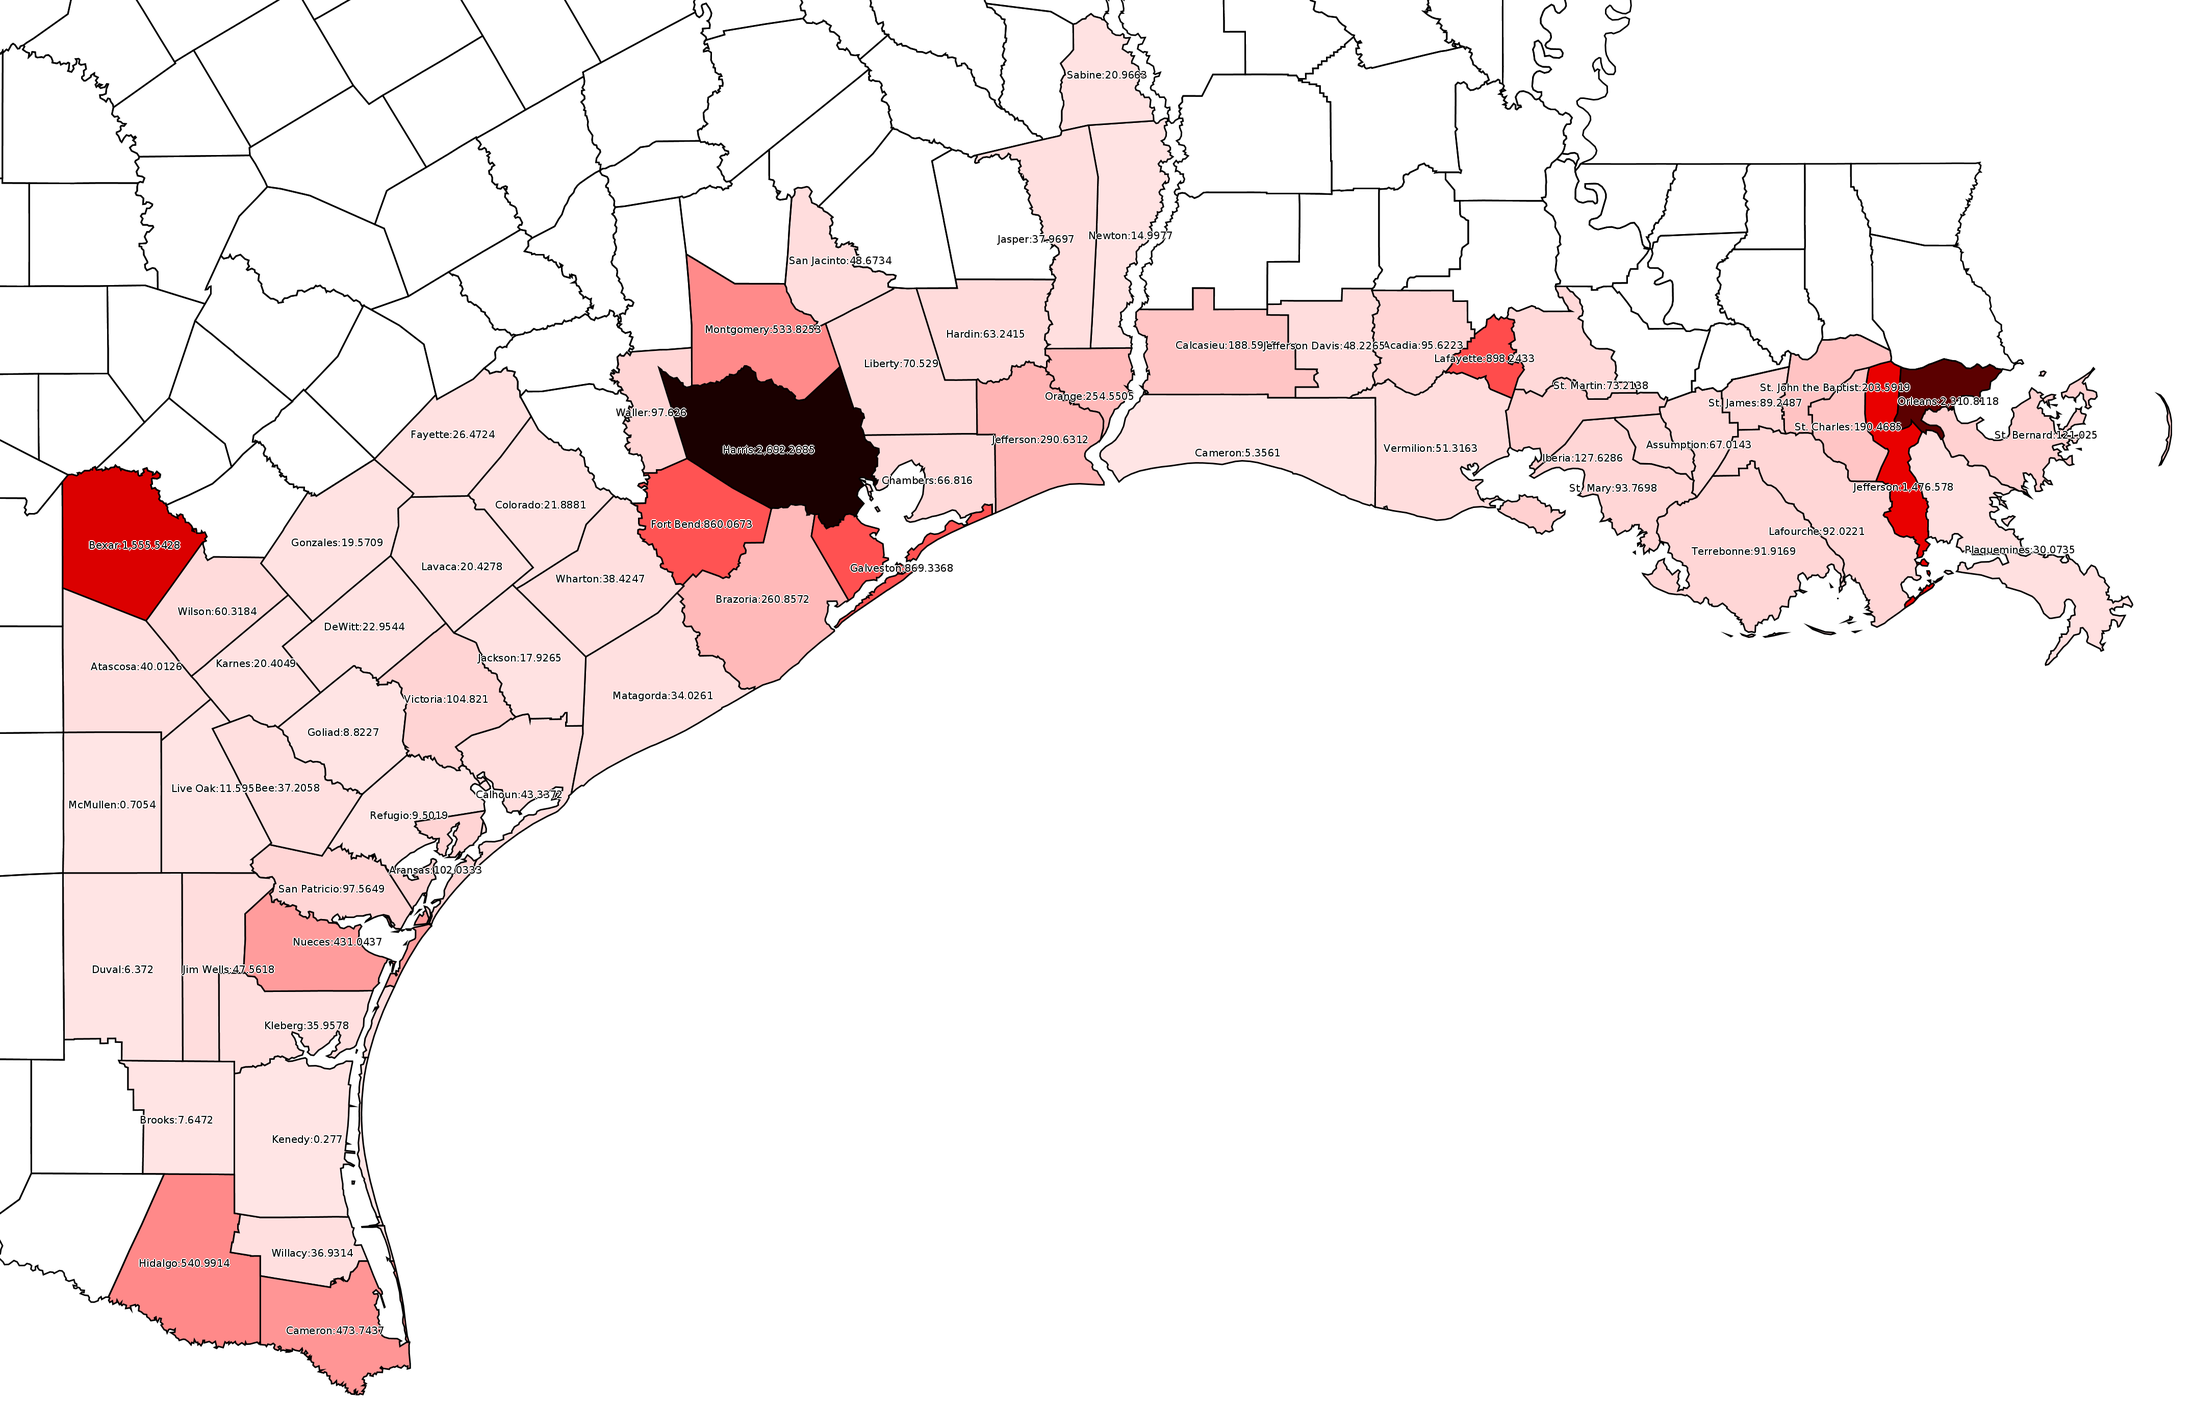
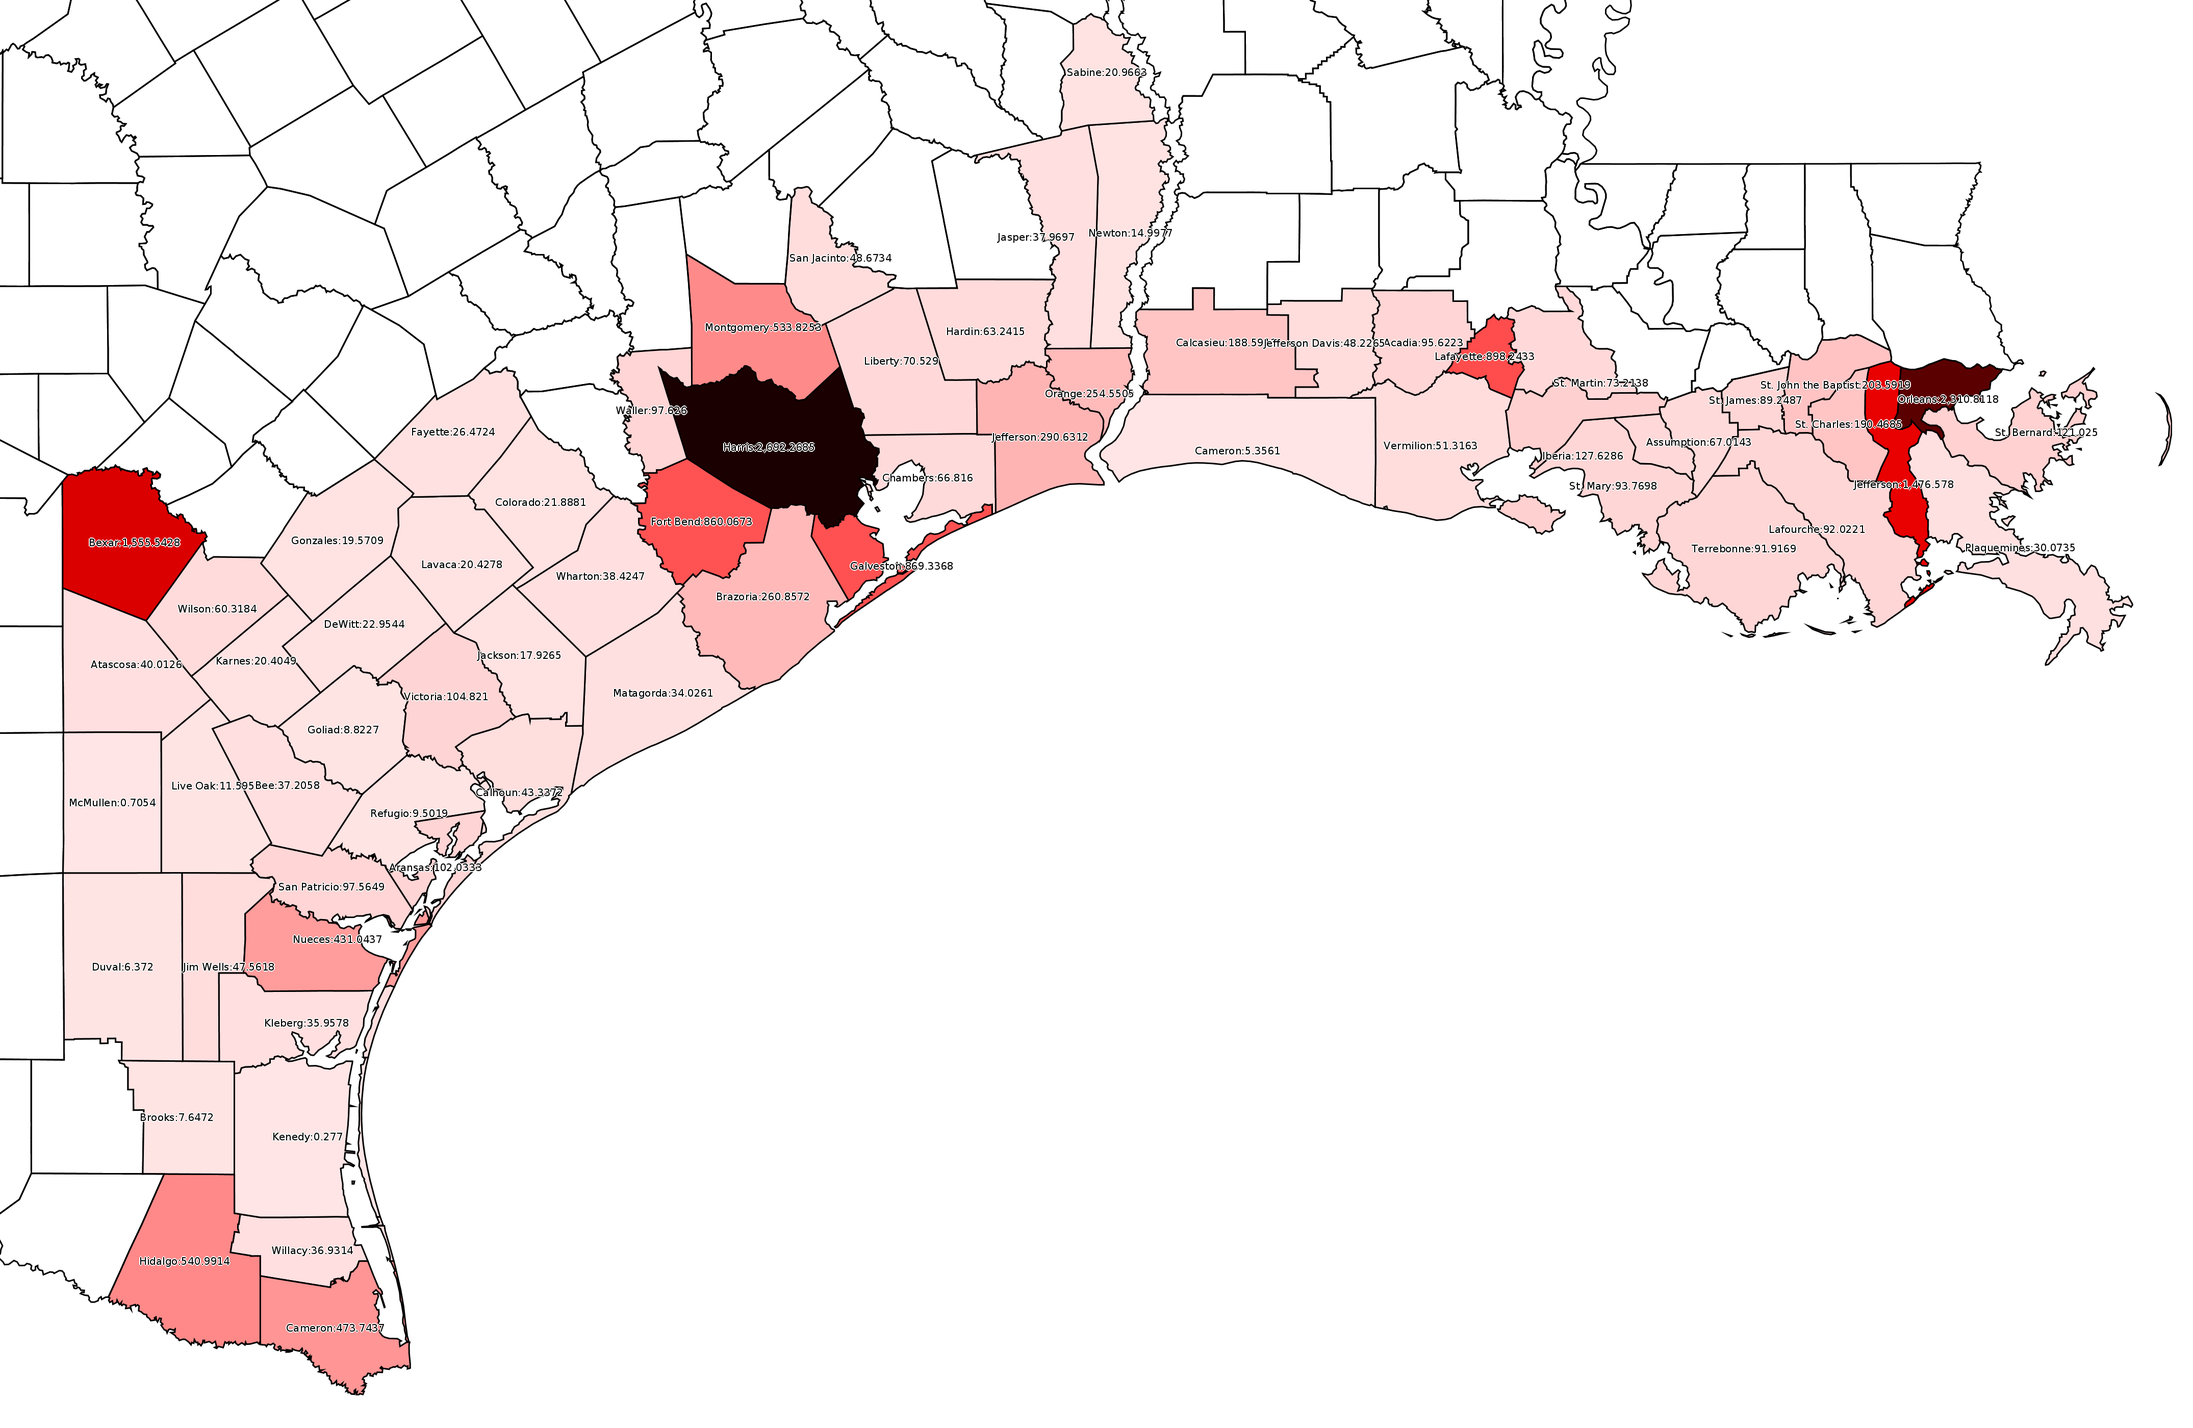
Added plot for cell sites out, out percentage and population affected. Added bar chart plotting.

diff --git a/src/main/java/edu/rutgers/winlab/mappainter/DataLogic.java b/src/main/java/edu/rutgers/winlab/mappainter/DataLogic.java
@@ -7,11 +7,14 @@ package edu.rutgers.winlab.mappainter;
 
 import com.google.gson.Gson;
 import java.awt.Color;
+import java.awt.FontMetrics;
 import java.awt.Graphics2D;
 import java.awt.image.BufferedImage;
+import java.io.BufferedReader;
 import java.io.FileReader;
 import java.io.IOException;
 import java.text.DecimalFormat;
+import java.util.ArrayList;
 import java.util.Arrays;
 import java.util.HashMap;
 
@@ -74,6 +77,42 @@ public class DataLogic {
             return county.substring(0, county.length() - 7).trim();
         }
         return county;
+    }
+
+    // values[d1][d2] d1==colors.length  d2==titles.length
+    public static void drawBarCharts(ArrayList<String> titles, Color[] colors, ArrayList<Double>[] values, int barWidth, int maxHeight, int fontSize, String fileName) throws IOException {
+        int totalWidth = barWidth * colors.length * titles.size();
+        BufferedImage img = new BufferedImage(1, 1, BufferedImage.TYPE_4BYTE_ABGR);
+        Graphics2D g2d = MapPainter.getGraphicsFromImage(img, fontSize);
+        int maxFontWidth = 0;
+        FontMetrics metrics = g2d.getFontMetrics();
+        for (String title : titles) {
+            maxFontWidth = Math.max(maxFontWidth, metrics.stringWidth(" " + title));
+        }
+        int totalHeight = maxHeight + maxFontWidth;
+        img = new BufferedImage(totalWidth, totalHeight, BufferedImage.TYPE_4BYTE_ABGR);
+        g2d = MapPainter.getGraphicsFromImage(img, fontSize);
+        metrics = g2d.getFontMetrics();
+        for (int j = 0; j < colors.length; j++) {
+            g2d.setColor(colors[j]);
+            for (int i = 0; i < titles.size(); i++) {
+                int height = (int) Math.round(values[j].get(i) * maxHeight);
+                g2d.fillRect((i * colors.length + j) * barWidth, maxHeight - height, barWidth, height);
+            }
+        }
+        g2d.setColor(Color.black);
+        for (int i = 0; i < titles.size(); i++) {
+            g2d.drawLine((i * colors.length) * barWidth, maxHeight - 4, (i * colors.length) * barWidth, maxHeight + 4);
+            g2d.drawLine(((i + 1) * colors.length) * barWidth - 1, maxHeight - 4, ((i + 1) * colors.length) * barWidth - 1, maxHeight + 4);
+        }
+        g2d.drawLine(0, maxHeight, totalWidth, maxHeight);
+        g2d.drawLine(0, maxHeight + 1, totalWidth, maxHeight + 1);
+        g2d.rotate(Math.PI / 2);
+        for (int i = 0; i < titles.size(); i++) {
+            String title = " " + titles.get(i);
+            g2d.drawString(title, maxHeight, (float) (metrics.getHeight() / 2 - metrics.getDescent() - (i + 0.5) * barWidth * colors.length));
+        }
+        MapPainter.saveImage(img, fileName);
     }
 
     private static final double BOUND_X = 310, BOUND_Y = 240, BOUND_WIDTH = 430, BOUND_HEIGHT = 280;
@@ -250,6 +289,157 @@ public class DataLogic {
             img = MapPainter.cropImage(img, (int) (BOUND_X * imageScale), (int) (BOUND_Y * imageScale), (int) (BOUND_WIDTH * imageScale), (int) (BOUND_HEIGHT * imageScale));
         }
         MapPainter.saveImage(img, "density.png");
+
+    }
+
+    public static void drawCellSites(boolean crop) throws IOException {
+        double imageScale = 10;
+        double strokeThickness = 3;
+        int fontSize = 20;
+        float hue = 0, saturation = 100, minBrightness = 95.0f, maxBrightness = 5.0f;
+        int maxOut = 160, maxPopOut = 234554;
+        double maxOutPercent = 18.0 / 19 * 100;
+        int days = 11;
+        Gson gson = new Gson();
+        Color[] colorSetting = new Color[]{
+            new Color(255, 0, 0, 64),
+            Color.green,
+            Color.blue
+        };
+
+        MapPainter.DrawSetting[] settings = new MapPainter.DrawSetting[]{
+            new MapPainter.DrawSetting("ResultMapTX.json", "TX", imageScale, 0, 0),
+            new MapPainter.DrawSetting("ResultMapLA.json", "LA", imageScale * 1102.0 / 2770, (518.0 + 3.0) * imageScale, (174.2 + 0.0) * imageScale)
+        };
+        CountyItem[] resultDataLA, resultDataTX;
+        HashMap<String, CountyItem> resultData = new HashMap<>();
+        try (FileReader reader = new FileReader("ResultDataLA.json")) {
+            resultDataLA = gson.fromJson(reader, CountyItem[].class);
+        }
+        try (FileReader reader = new FileReader("ResultDataTX.json")) {
+            resultDataTX = gson.fromJson(reader, CountyItem[].class);
+        }
+        for (CountyItem countyItem : resultDataTX) {
+            resultData.put(countyItem.getFIPS(), countyItem);
+        }
+        for (CountyItem countyItem : resultDataLA) {
+            resultData.put(countyItem.getFIPS(), countyItem);
+        }
+
+        HashMap<MapItem, Color>[] outColors = (HashMap<MapItem, Color>[]) new HashMap<?, ?>[days];
+        HashMap<MapItem, Color>[] outPercentColors = (HashMap<MapItem, Color>[]) new HashMap<?, ?>[days];
+        HashMap<MapItem, Color>[] popColors = (HashMap<MapItem, Color>[]) new HashMap<?, ?>[days];
+        HashMap<MapItem, String>[] texts = (HashMap<MapItem, String>[]) new HashMap<?, ?>[days];
+        HashMap<MapItem, String>[] popTexts = (HashMap<MapItem, String>[]) new HashMap<?, ?>[days];
+
+        ArrayList<String> titles = new ArrayList<>();
+        ArrayList<Double>[][] values = (ArrayList<Double>[][]) new ArrayList<?>[days][3];
+
+        for (int i = 0; i < outColors.length; i++) {
+            outColors[i] = new HashMap<>();
+            outPercentColors[i] = new HashMap<>();
+            texts[i] = new HashMap<>();
+            popColors[i] = new HashMap<>();
+            popTexts[i] = new HashMap<>();
+        }
+        for (ArrayList<Double>[] value : values) {
+            for (int j = 0; j < value.length; j++) {
+                value[j] = new ArrayList<>();
+            }
+        }
+
+        try (BufferedReader br1 = new BufferedReader(new FileReader("CellSitesServed.txt"))) {
+            try (BufferedReader br2 = new BufferedReader(new FileReader("CellSitesOut.txt"))) {
+                br1.readLine();
+                br2.readLine();
+                String line1, line2;
+                int lineCount = 1;
+                while ((line1 = br1.readLine()) != null) {
+                    line2 = br2.readLine();
+                    lineCount++;
+                    String[] parts1 = line1.split("\t");
+                    String[] parts2 = line2.split("\t");
+                    if (parts1.length != parts2.length || parts1.length < 2 || !parts1[0].equals(parts2[0]) || !parts1[1].equals(parts2[1])) {
+                        throw new IllegalArgumentException("Files not aligned at line " + lineCount);
+                    }
+                    MapItem mi = findCounty((parts1[0].equals("TX") ? settings[0] : settings[1]).getMis(), parts1[1], parts1[0]);
+                    String shortName = getShortCountyName(mi.getName());
+                    titles.add(shortName);
+                    long population = resultData.get(mi.getFIPS()).getPop();
+                    for (int i = 0; i < days; i++) {
+                        int pos = i + 2;
+                        if (pos >= parts1.length) {
+                            values[i][0].add(0.0);
+                            values[i][1].add(0.0);
+                            values[i][2].add(0.0);
+                            continue;
+                        }
+                        if (parts1[pos].equals("")) {
+                            if (!parts2[pos].equals("")) {
+                                throw new IllegalArgumentException("Files not aligned at line " + lineCount + ", part " + pos);
+                            } else {
+                                values[i][0].add(0.0);
+                                values[i][1].add(0.0);
+                                values[i][2].add(0.0);
+                                continue;
+                            }
+                        }
+                        int served = Integer.parseInt(parts1[pos]),
+                                out = Integer.parseInt(parts2[pos]);
+                        double percent = out * 100.0 / served;
+                        int popOut = (int) Math.ceil(out * 1.0 / served * population);
+                        values[i][0].add(percent / maxOutPercent);
+                        values[i][1].add(out * 1.0 / maxOut);
+                        values[i][2].add(popOut * 1.0 / maxPopOut);
+
+                        if (out == 0) {
+                            texts[i].put(mi, String.format("%s:%s", shortName, INTEGER_FORMAT.format(served)));
+//                            outPercentColors[i].put(mi, Color.white);
+//                            outColors[i].put(mi, Color.white);
+                            popTexts[i].put(mi, String.format("%s", shortName));
+//                            popColors[i].put(mi, Color.white);
+                        } else {
+                            texts[i].put(mi, String.format("%s:%s/%s(%.2f%%)", shortName, INTEGER_FORMAT.format(out), INTEGER_FORMAT.format(served), percent));
+                            outPercentColors[i].put(mi, HSLColor.toRGB(hue, saturation, (float) (percent * (maxBrightness - minBrightness) / maxOutPercent + minBrightness)));
+                            outColors[i].put(mi, HSLColor.toRGB(hue, saturation, (float) (out * (maxBrightness - minBrightness) / maxOut + minBrightness)));
+                            popTexts[i].put(mi, String.format("%s:%s", shortName, INTEGER_FORMAT.format(popOut)));
+                            popColors[i].put(mi, HSLColor.toRGB(hue, saturation, (float) (popOut * (maxBrightness - minBrightness) / maxPopOut + minBrightness)));
+                        }
+                    }
+                }
+            }
+        }
+
+        BufferedImage img;
+        Graphics2D g2d;
+
+        for (int i = 0; i < texts.length; i++) {
+            img = MapPainter.generateBufferedImage(settings);
+            g2d = MapPainter.getGraphicsFromImage(img, fontSize);
+            MapPainter.drawSetting(g2d, settings, outColors[i], texts[i], strokeThickness);
+            if (crop) {
+                img = MapPainter.cropImage(img, (int) (BOUND_X * imageScale), (int) (BOUND_Y * imageScale), (int) (BOUND_WIDTH * imageScale), (int) (BOUND_HEIGHT * imageScale));
+            }
+            MapPainter.saveImage(img, "out_" + i + ".png");
+
+            img = MapPainter.generateBufferedImage(settings);
+            g2d = MapPainter.getGraphicsFromImage(img, fontSize);
+            MapPainter.drawSetting(g2d, settings, outPercentColors[i], texts[i], strokeThickness);
+            if (crop) {
+                img = MapPainter.cropImage(img, (int) (BOUND_X * imageScale), (int) (BOUND_Y * imageScale), (int) (BOUND_WIDTH * imageScale), (int) (BOUND_HEIGHT * imageScale));
+            }
+            MapPainter.saveImage(img, "outPercent_" + i + ".png");
+
+            img = MapPainter.generateBufferedImage(settings);
+            g2d = MapPainter.getGraphicsFromImage(img, fontSize);
+            MapPainter.drawSetting(g2d, settings, popColors[i], popTexts[i], strokeThickness);
+            if (crop) {
+                img = MapPainter.cropImage(img, (int) (BOUND_X * imageScale), (int) (BOUND_Y * imageScale), (int) (BOUND_WIDTH * imageScale), (int) (BOUND_HEIGHT * imageScale));
+            }
+            MapPainter.saveImage(img, "outPop_" + i + ".png");
+
+            drawBarCharts(titles, colorSetting, values[i], 10, 300, fontSize, "bar_" + i + ".png");
+        }
 
     }
 }

diff --git a/src/main/java/edu/rutgers/winlab/mappainter/MapPainter.java b/src/main/java/edu/rutgers/winlab/mappainter/MapPainter.java
@@ -127,6 +127,7 @@ public class MapPainter {
 
     public static Graphics2D drawSetting(Graphics2D g2d, DrawSetting[] settings, HashMap<MapItem, Color> colors, HashMap<MapItem, String> texts, double strokeThickness) {
         Rectangle2D r2d;
+        FontMetrics metrics = g2d.getFontMetrics();
         HashMap<MapItem, Point2D.Double> centers = new HashMap<>();
         for (MapPainter.DrawSetting setting : settings) {
             AffineTransform tr = g2d.getTransform();
@@ -168,9 +169,8 @@ public class MapPainter {
                     Point2D.Double p = centers.get(mi);
                     double centerX = p.x;
                     double centerY = p.y;
-                    r2d = g2d.getFontMetrics().getStringBounds(text, g2d);
-                    centerX -= r2d.getWidth() / 2;
-                    centerY += r2d.getHeight() / 2;
+                    centerX -= metrics.stringWidth(text) / 2;
+                    centerY += metrics.getHeight() / 2 - metrics.getDescent();
                     g2d.setColor(Color.white);
                     g2d.drawString(text, (float) (centerX - 2), (float) (centerY));
                     g2d.drawString(text, (float) (centerX + 2), (float) (centerY));

diff --git a/src/test/java/edu/rutgers/winlab/mappainter/MapPainterTest.java b/src/test/java/edu/rutgers/winlab/mappainter/MapPainterTest.java
@@ -5,18 +5,7 @@
  */
 package edu.rutgers.winlab.mappainter;
 
-import java.awt.BasicStroke;
-import java.awt.Color;
-import java.awt.Graphics2D;
-import java.awt.RenderingHints;
-import java.awt.geom.AffineTransform;
-import java.awt.geom.Path2D;
-import java.awt.geom.Rectangle2D;
-import java.awt.image.BufferedImage;
-import java.io.FileOutputStream;
 import java.io.IOException;
-import java.util.HashMap;
-import javax.imageio.ImageIO;
 import org.junit.Test;
 import static org.junit.Assert.*;
 
@@ -75,7 +64,8 @@ public class MapPainterTest {
 
     @Test
     public void drawDisasterAreaMapStart() throws IOException {
-        DataLogic.drawDisasterArea(true);
-        DataLogic.drawPopulationDensityDisasterArea(true);
+//        DataLogic.drawDisasterArea(true);
+//        DataLogic.drawPopulationDensityDisasterArea(true);
+        DataLogic.drawCellSites(true);
     }
 }

diff --git a/src/test/java/edu/rutgers/winlab/mappainter/RawMapParserTest.java b/src/test/java/edu/rutgers/winlab/mappainter/RawMapParserTest.java
@@ -7,15 +7,13 @@ package edu.rutgers.winlab.mappainter;
 
 import java.io.IOException;
 import org.jdom2.JDOMException;
-import org.junit.Test;
-import static org.junit.Assert.*;
 
 /**
  *
  * @author jiachen
  */
 public class RawMapParserTest {
-    
+
     public RawMapParserTest() {
     }
 
@@ -24,5 +22,5 @@ public class RawMapParserTest {
         RawMapParser.parseMap("RawMapTX.txt", "ResultMapTX.json", "ResultDataTX.json");
         RawMapParser.parseMap("RawMapLA.txt", "ResultMapLA.json", "ResultDataLA.json");
     }
-    
+
 }

diff --git a/src/main/java/edu/rutgers/winlab/mappainter/RawMapParser.java b/src/main/java/edu/rutgers/winlab/mappainter/RawMapParser.java
@@ -7,13 +7,11 @@ package edu.rutgers.winlab.mappainter;
 
 import com.google.gson.Gson;
 import com.google.gson.GsonBuilder;
-import com.google.gson.stream.JsonWriter;
 import java.io.BufferedReader;
 import java.io.ByteArrayInputStream;
 import java.io.FileReader;
 import java.io.FileWriter;
 import java.io.IOException;
-import java.util.HashMap;
 import java.util.HashSet;
 import java.util.LinkedList;
 import org.jdom2.Document;

diff --git a/src/main/java/edu/rutgers/winlab/mappainter/MapItem.java b/src/main/java/edu/rutgers/winlab/mappainter/MapItem.java
@@ -7,7 +7,6 @@ package edu.rutgers.winlab.mappainter;
 
 import java.awt.geom.PathIterator;
 import java.util.LinkedList;
-import java.util.ListIterator;
 
 /**
  *
